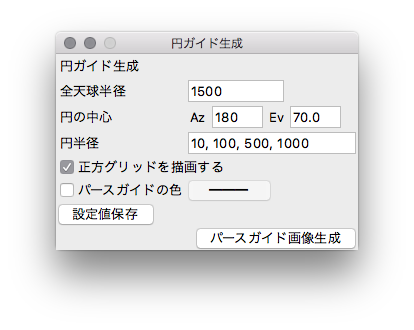
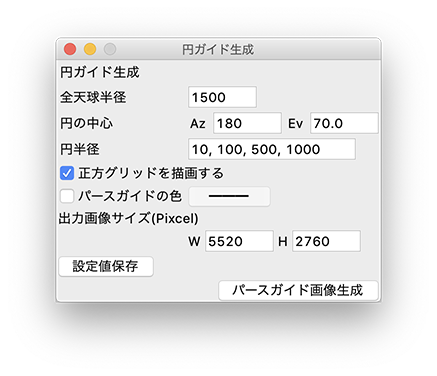
「円ガイド生成」任意の画像サイズ出力

diff --git a/setting_circle_grid.py b/setting_circle_grid.py
@@ -8,6 +8,7 @@ import numpy as np
 import colorsys
 from circle_grid_exec import circle_grid
 from mana544Lib import loadSetting, saveSetting, objectPoint
+from fractions import Fraction
 
 # ★★★★★★★★★
 # ★ アクション ★
@@ -20,6 +21,8 @@ def btn_saveSetting_action():
                    'txt_cirCtrAz': txt_cirCtrAz.get(),  # String
                    'txt_cirCtrEv': txt_cirCtrEv.get(),  # String
                    'txt_cirR': txt_cirR.get(),          # String
+                   'txt_imgSizW': txt_imgSizW.get(),          # String
+                   'txt_imgSizH': txt_imgSizH.get(),          # String
                    'chkVal_drawAzEvGrid': chkVal_drawAzEvGrid.get(),    # Boolean
                    'chkVal_guideColor': chkVal_guideColor.get(),        # Boolean
                    'btn_color': style.configure("btn_color.TButton")['foreground']}           # String
@@ -37,7 +40,8 @@ def btn_execute_action(event):
         centerPoint = objectPoint(
                 Az=float(txt_cirCtrAz.get()),
                 Ev=float(txt_cirCtrEv.get())
-                )
+        )
+        imageSize = (int(txtVal_imgSizW.get()), int(txtVal_imgSizH.get()))
 
         # カンマ区切りをスプリットする
         # 組み込みリスト型にはそのまま数値変換できないので
@@ -61,8 +65,16 @@ def btn_execute_action(event):
         else:
                 # 空のタプル
                 guideColor = ()
+
+        # imageSizeのタテヨコ比を検証
+        rto = Fraction(imageSize[0] , imageSize[1])
+        print('出力画像サイズ(W, H)={}, Ratio={}:{}'.format(imageSize, rto.numerator, rto.denominator))
+        if (rto.numerator != 2) or (rto.denominator != 1):
+                messagebox.showerror('縦横比エラー','出力画像サイズの縦横比が{}:{}になっています。縦横比は必ず「W:H = 2:1」になるように数値設定してください。'.format(rto.numerator, rto.denominator))
+                return
+        
         # 円ガイド生成実行
-        circle_grid(sphR, centerPoint, circleR, drawAzEvGrid, guideColor)
+        circle_grid(sphR, centerPoint, circleR, drawAzEvGrid, guideColor, imageSize)
 
 
 # 「パースガイドの色」チェックボックス
@@ -99,95 +111,118 @@ frm.grid(column=0, row=0, sticky=tkinter.N+tkinter.S+tkinter.E+tkinter.W)
 # 初期設定値をsetting.jsonから読み込む
 setting = loadSetting('circle_grid')
 
-# ★★★★★★★★★★★★
-# ★ ttkスタイル設定 ★
-# ★★★★★★★★★★★★
+#######################
+# ttkスタイル設定
+#######################
 style = ttk.Style()
 style.configure("btn_color.TButton", foreground=setting['btn_color'])
 
-# ★★★★★★★★★
-# ★ 子フレーム ★
-# ★★★★★★★★★
-# 円中心Point(Az, Ev)用コンテナ
-cirCtrFrm = ttk.Frame(frm)
-
-# ★★★★★★★★★★★★★★★
-# ★ スタティックテキスト ★
-# ★★★★★★★★★★★★★★★
-Static01 = ttk.Label(frm, text=u'円ガイド生成', justify='left', padding='2')
-Static02 = ttk.Label(frm, text=u'全天球半径', justify='left', padding='2')
-Static03 = ttk.Label(frm, text=u'円の中心', justify='left', padding='2')
-Static04 = ttk.Label(cirCtrFrm, text=u'Az', justify='left', padding='2')
-Static05 = ttk.Label(cirCtrFrm, text=u'Ev', justify='left', padding='2')
-Static06 = ttk.Label(frm, text=u'円半径', justify='left', padding='2')
-
-# ★★★★★★★★★★★★★★
-# ★ インプットテキスト ★
-# ★★★★★★★★★★★★★★
+#######################
+# インプットテキスト格納用オブジェクト
+#######################
 txtVal_sphR = tkinter.StringVar()
 txtVal_cirCtrAz = tkinter.StringVar()
 txtVal_cirCtrEv = tkinter.StringVar()
 txtVal_cirR = tkinter.StringVar()
+txtVal_imgSizW = tkinter.StringVar()
+txtVal_imgSizH = tkinter.StringVar()
 
 txtVal_sphR.set(setting['txt_sphR'])
 txtVal_cirCtrAz.set(setting['txt_cirCtrAz'])
 txtVal_cirCtrEv.set(setting['txt_cirCtrEv'])
 txtVal_cirR.set(setting['txt_cirR'])
+txtVal_imgSizW.set(setting['txt_imgSizW'])
+txtVal_imgSizH.set(setting['txt_imgSizH'])
 
-txt_sphR = ttk.Entry(frm, width=10, justify='left', textvariable=txtVal_sphR)
-txt_cirCtrAz = ttk.Entry(cirCtrFrm, width=5, justify='left', textvariable=txtVal_cirCtrAz)
-txt_cirCtrEv = ttk.Entry(cirCtrFrm, width=5, justify='left', textvariable=txtVal_cirCtrEv)
-txt_cirR = ttk.Entry(frm, width=18, justify='left', textvariable=txtVal_cirR)
-
-# ★★★★★★★★★★★★★
-# ★ チェックボックス ★
-# ★★★★★★★★★★★★★
-# チェックボックス用変数
+#######################
+# チェックボックス格納用オブジェクト
+#######################
 chkVal_drawAzEvGrid = tkinter.BooleanVar()
 chkVal_guideColor = tkinter.BooleanVar()
 
 chkVal_drawAzEvGrid.set(setting['chkVal_drawAzEvGrid'])
 chkVal_guideColor.set(setting['chkVal_guideColor'])
 
+#######################
+# GUIコンポーネントの定義
+# ココでの定義順でTabフォーカスの順序が決定される
+#######################
+# タイトル
+Static01 = ttk.Label(frm, text=u'円ガイド生成', justify='left', padding='2')
+# 全天球半径 text
+Static02 = ttk.Label(frm, text=u'全天球半径', justify='left', padding='2')
+# 全天球半径 インプット
+txt_sphR = ttk.Entry(frm, width=7, justify='left', textvariable=txtVal_sphR)
+# 円の中心 text
+Static03 = ttk.Label(frm, text=u'円の中心', justify='left', padding='2')
+# 円の中心(Az, Ev)
+cirCtrFrm = ttk.Frame(frm)
+Static04 = ttk.Label(cirCtrFrm, text=u'Az', justify='left', padding='2')
+txt_cirCtrAz = ttk.Entry(cirCtrFrm, width=7, justify='left', textvariable=txtVal_cirCtrAz)
+Static05 = ttk.Label(cirCtrFrm, text=u'Ev', justify='left', padding='2')
+txt_cirCtrEv = ttk.Entry(cirCtrFrm, width=7, justify='left', textvariable=txtVal_cirCtrEv)
+# 円半径 text
+Static06 = ttk.Label(frm, text=u'円半径', justify='left', padding='2')
+# 円半径 インプット
+txt_cirR = ttk.Entry(frm, width=18, justify='left', textvariable=txtVal_cirR)
+# 正方グリッドを描画する チェックボックス
 chk_drawAzEvGrid = ttk.Checkbutton(frm, text=u"正方グリッドを描画する" , variable=chkVal_drawAzEvGrid)
+# パースガイドの色 チェックボックス
 chk_guideColor = ttk.Checkbutton(frm, text=u"パースガイドの色" , variable=chkVal_guideColor, command=chk_guideColor_action)
-
-# ★★★★★★★
-# ★ ボタン ★
-# ★★★★★★★
+# パースガイド色設定ボタン
 btn_color = ttk.Button(frm, text=u'━━━', style='btn_color.TButton', command=btn_color_action)
-btn_execute = ttk.Button(frm, text=u'パースガイド画像生成')
+# 出力画像サイズ(W, H) インプット
+Static07 = ttk.Label(frm, text=u'出力画像サイズ(Pixcel)', justify='left')
+imgSzFrm = ttk.Frame(frm)
+Static08 = ttk.Label(imgSzFrm, text=u'W', justify='left')
+txt_imgSizW = ttk.Entry(imgSzFrm, width=7, justify='left', textvariable=txtVal_imgSizW)
+Static09 = ttk.Label(imgSzFrm, text=u'H', justify='left')
+txt_imgSizH = ttk.Entry(imgSzFrm, width=7, justify='left', textvariable=txtVal_imgSizH)
+# 設定値保存ボタン
 btn_saveSetting = ttk.Button(frm, text=u'設定値保存', command=btn_saveSetting_action)
+# パースガイド画像生成ボタン
+btn_execute = ttk.Button(frm, text=u'パースガイド画像生成')
 
-# ★★★★★★★★
-# ★ イベント ★
-# ★★★★★★★★
+#################
+# イベントバインド
+#################
 btn_execute.bind("<ButtonRelease-1>", btn_execute_action) 
 
-# ★★★★★★★★★
-# ★ レイアウト ★
-# ★★★★★★★★★
-cirCtrFrm.grid(row=2, column=1, sticky='W')
-
+##################
+# グリッドレイアウト
+##################
 Static01.grid(row=0, column=0, columnspan=2, sticky='W')
 Static02.grid(row=1, column=0, sticky='W')
-Static03.grid(row=2, column=0, sticky='W')
-Static06.grid(row=3, column=0, sticky='W')
-Static04.grid(row=0, column=0, sticky='W')
-Static05.grid(row=0, column=2, sticky='W')
 txt_sphR.grid(row=1, column=1, sticky='W')
+
+Static03.grid(row=2, column=0, sticky='W')
+# 円の中心小フレーム
+cirCtrFrm.grid(row=2, column=1, sticky='W')
+Static04.grid(row=0, column=0, sticky='W')
 txt_cirCtrAz.grid(row=0, column=1, sticky='W')
+Static05.grid(row=0, column=2, sticky='W')
 txt_cirCtrEv.grid(row=0, column=3, sticky='W')
+
+Static06.grid(row=3, column=0, sticky='W')
 txt_cirR.grid(row=3, column=1, sticky='W')
 chk_drawAzEvGrid.grid(row=4, column=0, columnspan=2, sticky='W')
 chk_guideColor.grid(row=5, column=0, sticky='W')
 btn_color.grid(row=5, column=1, sticky='W')
-btn_execute.grid(row=7, column=0, columnspan=2, sticky='E')
-btn_saveSetting.grid(row=6, column=0, columnspan=2, sticky='W')
 
-# ★★★★★★★
-# ★ 再描画 ★
-# ★★★★★★★
+Static07.grid(row=6, column=0, columnspan=2, sticky='W')
+# 出力画像サイズ小フレーム
+imgSzFrm.grid(row=7, column=1, sticky='W')
+Static08.grid(row=0, column=0, sticky='W')
+txt_imgSizW.grid(row=0, column=1, sticky='W')
+Static09.grid(row=0, column=2, sticky='W')
+txt_imgSizH.grid(row=0, column=3, sticky='W')
+
+btn_saveSetting.grid(row=8, column=0, columnspan=2, sticky='W')
+btn_execute.grid(row=9, column=0, columnspan=2, sticky='E')
+
+#########
+# 再描画
+#########
 btn_color_reDraw()
 
 

diff --git a/circle_grid_exec.py b/circle_grid_exec.py
@@ -51,7 +51,7 @@ def DHW2AzEv(rect):
     return Az,Ev
 
 
-def createImage(line_point, drawAzEvGrid, guideColor):
+def createImage(line_point, drawAzEvGrid, guideColor, imageSize):
     """
     OPを描画してPNGファイルに保存する。
 
@@ -64,13 +64,13 @@ def createImage(line_point, drawAzEvGrid, guideColor):
         TrueでAz=(0, 90, 180, 270, 360), Ev=(-90, 0, 90) の位置にグレーのラインが描画されます。
     guideColor : tuple(int, int, int)
         描画する色
+    imageSize : tuple(int, int)
+        生成画像のサイズを(width, height)[pixcel]で指定。
 
     Returns
     -------
     なし
     """
-    # 画像のサイズ(width, height)
-    imageSize = (5376, 2688)
     gridDivision = imageSize[0]/4
     grid = [[gridDivision, 0, gridDivision, gridDivision*2],
             [gridDivision*2, 0, gridDivision*2, gridDivision*2],
@@ -180,7 +180,7 @@ def calc_circlePoint(centerPoint, circleR):
 
     return circlePoint
 
-def circle_grid(sphR, centerPoint, circleR, drawAzEvGrid, guideColor):
+def circle_grid(sphR, centerPoint, circleR, drawAzEvGrid, guideColor, imageSize):
     '''
     ★★★★★★★★★★★★★★
     ★ 円ガイド生成の     ★
@@ -202,6 +202,8 @@ def circle_grid(sphR, centerPoint, circleR, drawAzEvGrid, guideColor):
     guideColor : tuple(int, int, int)
         パースガイドの色をRGB値で指定。
         空tupleを指定すると、パースガイドの色を自動で決定します。
+    imageSize : tuple(int, int)
+        生成画像のサイズを(width, height)[pixcel]で指定。
     '''
     # ▼▼▼ 設定値ココカラ ▼▼▼
     # sphR = 1.5 * 1000
@@ -237,6 +239,6 @@ def circle_grid(sphR, centerPoint, circleR, drawAzEvGrid, guideColor):
         print("circle_R: %.f" % (circleR[i]))
 
     # 円を描画
-    createImage(line_point, drawAzEvGrid, guideColor)
+    createImage(line_point, drawAzEvGrid, guideColor, imageSize)
     print("処理が全部終わりました。")
 

diff --git a/doc/setting_circle_grid.md b/doc/setting_circle_grid.md
@@ -2,13 +2,6 @@
 正距円筒図法(Equirectangular)に則った同心円の
 “正円ガイド”を計算して、画像生成します。
 
-## 準備
-ご自身のローカル環境に以下の実行環境を構築の上、このリポジトリを`clone`してください。
-* Python(Anaconda) 3.6.4(5.1.0)
-* tkinter 8.6
-* numpy 1.14.0
-* pillow 5.0.0
-
 以降、拙著[「全天球イラストの描き方」](https://www.pixiv.net/user/810920/series/41910)
 をまずはご覧頂き、用語や概念を理解した上で以下の使い方をお読みください。
 
@@ -21,17 +14,40 @@
 設定値については、以下の概念図も併せてご覧下さい。  
 ![円ガイド概念図](circle_grid_abstract.png)
 
+### 全天球半径
+全天球の半径。
 
-| 名前 | format| 初期値 |説明|
-|:---|:---|:---|:---|
-|全天球半径 |float |1500 |全天球の半径。正の値を指定してください。|
-|円の中心|float |Az=180, Ev=70|生成する円の中心を[Az, Ev]で指定。|
-|円半径|float(,　float...) |10, 100, 500, 1000|生成する円の半径。正の値を指定してください。この項目だけは複数の数値を入力することができて、カンマで区切って数値を指定すると、その数だけ円ガイドが同心円状に生成されます。ひとつだけ円ガイドを生成したい場合は、ひとつの数値を指定してください。|
+#### 制約条件・注意点
+* 正の値を指定してください。
+* 単位は[mm]でも[cm]でも[m]でもなんでもいいですが、「円半径」と同じ単位に揃えて下さい。
 
-| 名前  |説明|
-|:---|:---|
-|正方グリッドを描画する|PNG画像内に正距円筒図法の正方グリッドを描画するかどうか。チェックをいれると、Az=(0, 90, 180, 270, 360), Ev=(-90, 0, 90) の位置にグレーのラインが描画されます。|
-|パースガイドの色|パースガイドを任意の色にしたい場合、チェックを入れて右のボタンで色を指定してください。複数の同心円を生成する際も、円の色はこの1色で書き出されます。このチェックを入れない場合、円の色は自動で決定します。|
+### 円の中心(Az, Ev)
+生成する円の中心を[Az, Ev]で指定。
+
+#### 制約条件・注意点
+* 0 <= Az < 360[deg]で指定してください。
+* -90 <= Ev <= 90[deg]で指定してください。
+
+### 円半径
+生成する円の半径。この項目だけは複数の数値を入力することができて、カンマで区切って数値を指定すると、その数だけ円ガイドが同心円状に生成されます。ひとつだけ円ガイドを生成したい場合は、ひとつの数値を指定してください。
+
+#### 制約条件・注意点
+* 正の値を指定してください。
+* 単位は[mm]でも[cm]でも[m]でもなんでもいいですが、「全天球半径」と同じ単位に揃えて下さい。
+
+### 正方グリッドを描画する
+PNG画像内に正距円筒図法の正方グリッドを描画するかどうか。チェックをいれると、Az=(0, 90, 180, 270, 360), Ev=(-90, 0, 90) の位置にグレーのラインが描画されます。
+
+### パースガイドの色
+パースガイドを任意の色にしたい場合、チェックを入れて右のボタンで色を指定してください。複数の同心円を生成する際も、円の色はこの1色で書き出されます。このチェックを入れない場合、円の色は自動で決定します。
+
+### 出力画像サイズ
+パースガイド出力画像サイズを ```W, H``` それぞれpicxelで指定。
+
+#### 制約条件・注意点
+* 正の整数で指定。
+* 必ず縦横比が ```W:H = 2:1``` になるようなサイズを設定して下さい。
+* このスクリプトでは画像の出力サイズに制限を設けていませんが、大きいサイズを指定すると計算に時間がかかり、場合によってはエラーになるかもしれません。
 
 ## パースガイド画像生成
 設定値を入力したら「パースガイド画像生成」ボタンを押下すると、計算してPNG画像を生成します。  
